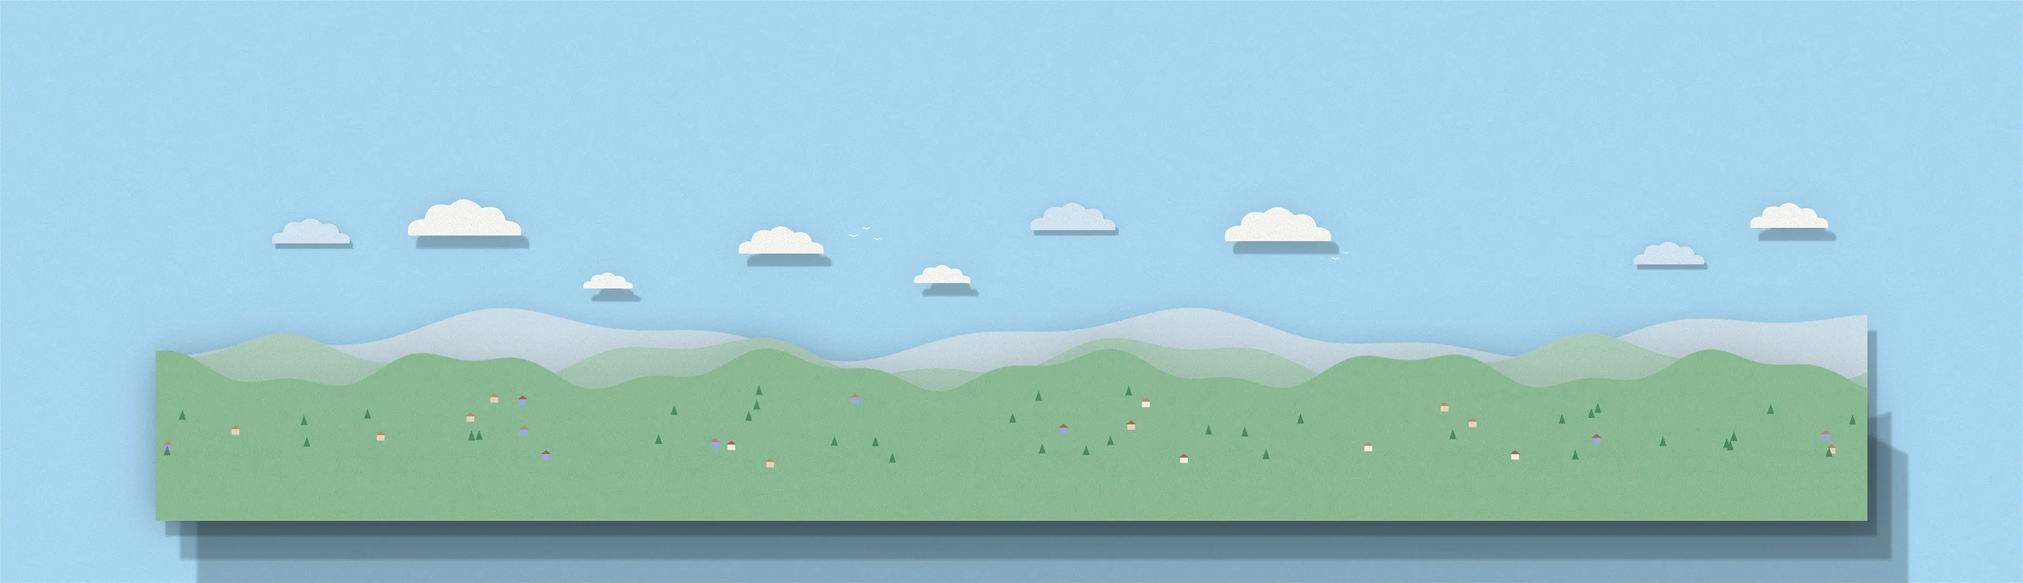
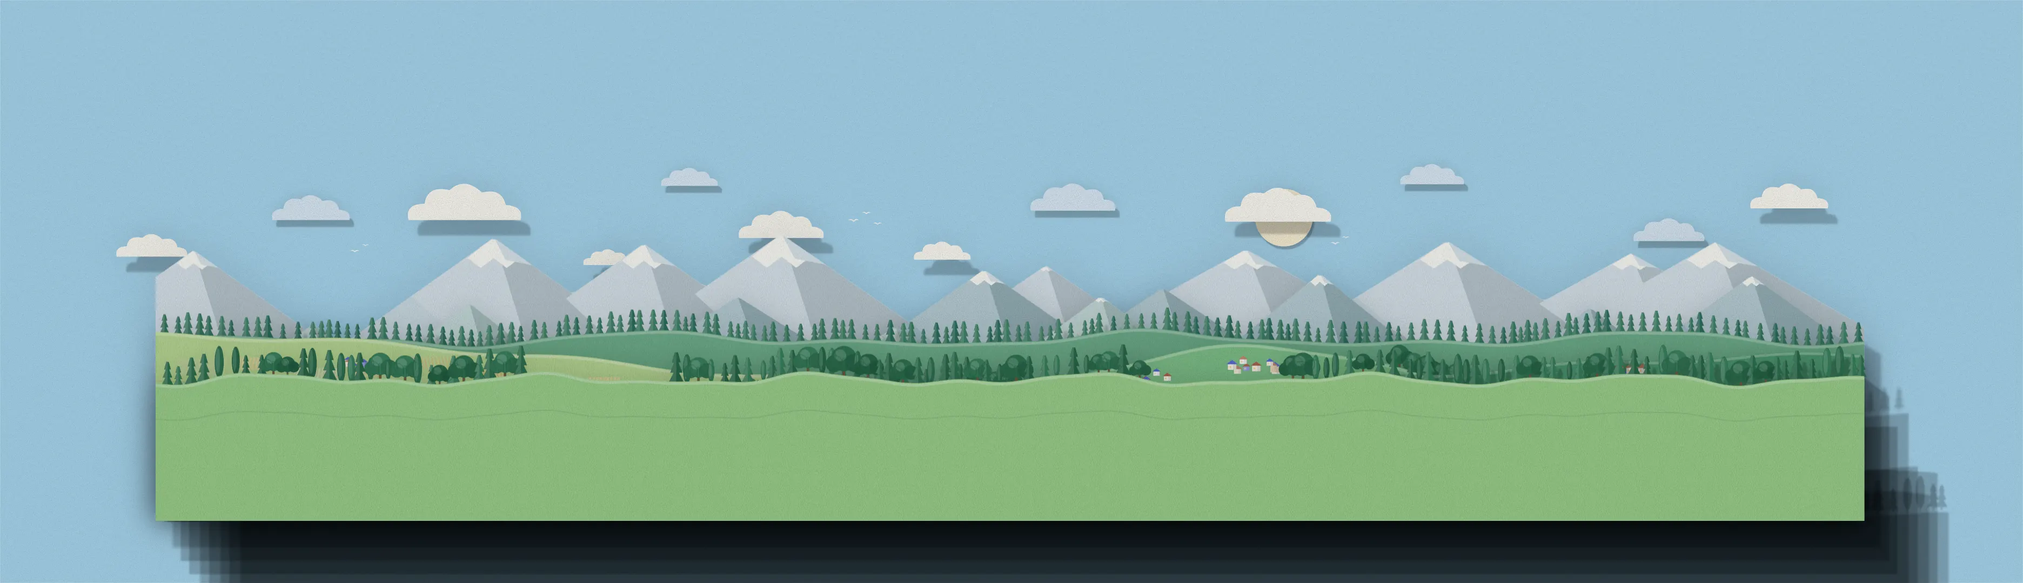
papercraft: a richer valley behind the hometown square (bake pending)
The open view goes from eleven plain layers to about twenty-five: faceted peaks
with snow caps, sweeping hills, mounds, woods on their own sheets, terraced
fields, hamlets, a far-bank town with towers, a quay and bridge, boats, and a
lower town of varied houses. Each sheet carries a lit crest, contour lines and
two-tone trees. The baked art in this commit predates the change.

Claude-Session: https://claude.ai/code/session_01YPNotSbbJKW5yf9dC5KJqA

diff --git a/game/src/art/scenes/hometown.ts b/game/src/art/scenes/hometown.ts
@@ -57,76 +57,195 @@ const NEAR: Card = { id: 'lane-near', x0: -1300, z: -480, w: 2600, density: .95 
 const FAR: Card = { id: 'lane-far', x0: -1800, z: -740, w: 3600, density: .6 };
 const sheet = (card: Card, id: string, gap: number, y0: number, h: number, c: string, mask: string, print = '', stock: Panel['stock'] = 'sugar'): Panel =>
   ({ id, stock, c, w: card.w, h, o: [card.x0, y0, card.z + gap], u: [1, 0, 0], v: [0, 1, 0], edge: 'cut', density: card.density, decal: card.id, mask, print });
-// A row of cottages cut from one sheet: gabled or hipped, each its own colour, with lit windows.
-function cottages(W: number, H: number, lo: number, hi: number, minW: number, maxW: number, cols: string[], roofs: string[], win: string, breaks: number) {
-  let mask = '', print = '';
+/* The landscape kit. Every layer of the view is one cut sheet whose top edge is a profile: a height above the sheet's
+   foot for each x. Layers differ in kind, not only in colour: faceted peaks, hills that sweep up from one side, rounded
+   mounds, rolling bands. Detail is cut from lighter and darker tones of the sheet's own colour. */
+type Prof = (x: number) => number;
+const clamp = (u: number) => Math.min(1, Math.max(0, u)), ease = (u: number) => u * u * (3 - 2 * u);
+const rolling = (hi: number, amp: number, len: number, ph: number): Prof => x => hi + amp * (.55 * Math.sin(x / len + ph) + .3 * Math.sin(x / len * 1.9 + ph * 2) + .15 * Math.sin(x / len * 3.3 + ph * 3));
+const sweep = (x0: number, x1: number, lo: number, hi: number, dir: 1 | -1, ph = 0): Prof => x => lo + (hi - lo) * ease(clamp(dir > 0 ? (x1 - x) / (x1 - x0) : (x - x0) / (x1 - x0))) + 7 * Math.sin(x / 90 + ph);
+const mound = (cx: number, hw: number, lo: number, hi: number): Prof => x => lo + (hi - lo) * Math.cos(clamp(Math.abs(x - cx) / hw) * Math.PI / 2) ** 1.5 + 5 * Math.sin(x / 70);
+type Peak = { x: number; h: number; s: number };
+const range = (pk: Peak[], floor: number): Prof => x => pk.reduce((y, p) => Math.max(y, p.h - Math.abs(x - p.x) * p.s), floor);
+const both = (a: Prof, b: Prof): Prof => x => Math.max(a(x), b(x));
+const line = (W: number, H: number, p: Prof, drop = 0, step = 12) => { let d = ''; for (let x = 0; x <= W; x += step) d += `${x ? 'L' : 'M'}${x} ${f(H - p(x) + drop)}`; return d; };
+const cut = (W: number, H: number, p: Prof) => `<path d="${line(W, H, p)}V${H}H0Z" fill="#fff"/>`;
+// The sheet's own detail: a pale strip along the crest where the light catches the cut edge, and darker contour lines
+// below it, the way stacked card reads.
+const crest = (W: number, H: number, p: Prof, c: string, contours = 2) => `<path d="${line(W, H, p, 5)}" stroke="${tone(c, .28)}" stroke-width="7" fill="none"/>` +
+  Array.from({ length: contours }, (_, i) => `<path d="${line(W, H, x => p(x) * (1 - (i + 1) * .26), 0)}" stroke="${tone(c, -.07)}" stroke-width="3" fill="none"/>`).join('');
+// A field: a patch of ploughed stripes lying on a slope.
+const field = (x: number, y: number, w: number, h: number, skew: number, a: string, b: string) => `<g transform="translate(${f(x)} ${f(y)}) skewX(${skew})"><rect width="${f(w)}" height="${f(h)}" fill="${a}"/>${Array.from({ length: Math.floor(w / 9) }, (_, i) => `<rect x="${i * 9 + 2}" width="3.4" height="${f(h)}" fill="${b}"/>`).join('')}</g>`;
+type Art = { m: string; p: string };
+const none: Art = { m: '', p: '' }, join = (a: Art[]): Art => ({ m: a.map(q => q.m).join(''), p: a.map(q => q.p).join('') });
+const shape = (d: string, c: string): Art => ({ m: `<path d="${d}" fill="#fff"/>`, p: `<path d="${d}" fill="${c}"/>` });
+// Three trees, each cut in two tones: the lit side lighter.
+function pine(x: number, base: number, h: number, c: string): Art {
+  const w = h * .46, t = h / 3.4; let full = `M${f(x - w * .08)} ${f(base)}V${f(base - t * .4)}`, half = `M${f(x)} ${f(base - t * .4)}`;
+  for (let k = 0; k < 3; k++) { const hw = w / 2 * (1 - k * .22), y = base - t * .4 - k * t; full += `L${f(x - hw)} ${f(y)}L${f(x - hw * .36)} ${f(y - t)}`; half += `L${f(x - hw)} ${f(y)}L${f(x - hw * .36)} ${f(y - t)}`; }
+  full += `L${f(x)} ${f(base - h)}`; half += `L${f(x)} ${f(base - h)}Z`;
+  for (let k = 2; k >= 0; k--) { const hw = w / 2 * (1 - k * .22), y = base - t * .4 - k * t; full += `L${f(x + hw * .36)} ${f(y - t)}L${f(x + hw)} ${f(y)}`; }
+  full += `L${f(x + w * .08)} ${f(base - t * .4)}V${f(base)}Z`;
+  return { m: `<path d="${full}" fill="#fff"/>`, p: `<path d="${full}" fill="${c}"/><path d="${half}" fill="${tone(c, .16)}"/>` };
+}
+function oak(x: number, base: number, h: number, c: string): Art {
+  const R = h * .36, cy = base - h + R, blobs: [number, number, number][] = [[0, 0, R], [R * .8, R * .34, R * .72], [-R * .76, R * .4, R * .66]];
+  const m = blobs.map(([dx, dy, rr]) => `<circle cx="${f(x + dx)}" cy="${f(cy + dy)}" r="${f(rr)}" fill="#fff"/>`).join('') + `<rect x="${f(x - R * .12)}" y="${f(cy)}" width="${f(R * .24)}" height="${f(base - cy)}" fill="#fff"/>`;
+  const p = `<rect x="${f(x - R * .12)}" y="${f(cy)}" width="${f(R * .24)}" height="${f(base - cy)}" fill="#7a5c42"/>` + blobs.map(([dx, dy, rr], i) => `<circle cx="${f(x + dx)}" cy="${f(cy + dy)}" r="${f(rr)}" fill="${[c, tone(c, -.12), tone(c, -.05)][i]}"/>`).join('') + `<circle cx="${f(x - R * .28)}" cy="${f(cy - R * .26)}" r="${f(R * .46)}" fill="${tone(c, .18)}"/>`;
+  return { m, p };
+}
+function poplar(x: number, base: number, h: number, c: string): Art {
+  const rx = h * .13, e = `cx="${f(x)}" cy="${f(base - h * .56)}" rx="${f(rx)}" ry="${f(h * .46)}"`;
+  return { m: `<ellipse ${e} fill="#fff"/><rect x="${f(x - 1.5)}" y="${f(base - h * .2)}" width="3" height="${f(h * .2)}" fill="#fff"/>`, p: `<rect x="${f(x - 1.5)}" y="${f(base - h * .2)}" width="3" height="${f(h * .2)}" fill="#7a5c42"/><ellipse ${e} fill="${c}"/><ellipse cx="${f(x - rx * .3)}" cy="${f(base - h * .6)}" rx="${f(rx * .5)}" ry="${f(h * .36)}" fill="${tone(c, .16)}"/>` };
+}
+const TREES = { pine, oak, poplar };
+// A treeline on its own sheet: trees standing on the crest of the hill in front of it, in a value that contrasts with that
+// hill. `runs` are [from, to] stretches, so a wood covers only part of a ridge.
+function woods(W: number, H: number, ground: Prof, runs: [number, number][], kinds: (keyof typeof TREES)[], cols: string[], lo: number, hi: number, every: number): Art {
+  const all: Art[] = [];
+  for (const [a, b] of runs) for (let x = a + r(0, every); x < b; x += r(every * .6, every * 1.3)) { const h = r(lo, hi); all.push(TREES[pick(kinds)](x, H - ground(x) + h * .16, h, pick(cols))); }
+  return join(all);
+}
+// One building, drawn standing on `base`. Roofs, chimneys, dormers, shutters and doors vary, so a row is a street, not a
+// repeat.
+function building(x: number, base: number, w: number, h: number, c: string, roofC: string, win: string, detail = 1): Art {
+  const kind = pick(['gable', 'gable', 'hip', 'side', 'flat']), top = base - h, pk = kind === 'flat' ? 5 : w * r(.3, .44), out: Art[] = [];
+  out.push({ m: `<rect x="${f(x)}" y="${f(top)}" width="${f(w)}" height="${f(h)}" fill="#fff"/>`, p: `<rect x="${f(x)}" y="${f(top)}" width="${f(w)}" height="${f(h)}" fill="${c}"/><rect x="${f(x + w * .62)}" y="${f(top)}" width="${f(w * .38)}" height="${f(h)}" fill="${tone(c, -.07)}"/><rect x="${f(x)}" y="${f(base - 5)}" width="${f(w)}" height="5" fill="${tone(c, -.2)}"/>` });
+  if (r(0, 1) < .5) { const cx = x + w * r(.18, .78), ch = pk * r(.7, 1.1) + 8; out.push({ m: `<rect x="${f(cx)}" y="${f(top - ch)}" width="8" height="${f(ch)}" fill="#fff"/>`, p: `<rect x="${f(cx)}" y="${f(top - ch)}" width="8" height="${f(ch)}" fill="${tone(roofC, -.25)}"/><rect x="${f(cx - 1.5)}" y="${f(top - ch)}" width="11" height="3" fill="${tone(roofC, .3)}"/>` }); }
+  const roof = kind === 'gable' ? `M${f(x - 5)} ${f(top)}L${f(x + w / 2)} ${f(top - pk)}L${f(x + w + 5)} ${f(top)}Z`
+    : kind === 'hip' ? `M${f(x - 5)} ${f(top)}L${f(x + w * .22)} ${f(top - pk * .7)}H${f(x + w * .78)}L${f(x + w + 5)} ${f(top)}Z`
+      : kind === 'side' ? `M${f(x - 5)} ${f(top)}L${f(x + 2)} ${f(top - pk * .62)}H${f(x + w - 2)}L${f(x + w + 5)} ${f(top)}Z` : `M${f(x - 3)} ${f(top)}V${f(top - 6)}H${f(x + w + 3)}V${f(top)}Z`;
+  out.push({ m: `<path d="${roof}" fill="#fff"/>`, p: `<path d="${roof}" fill="${roofC}"/>` + (kind === 'side' || kind === 'hip' ? Array.from({ length: 3 }, (_, i) => `<path d="M${f(x)} ${f(top - pk * .16 * (i + 1))}H${f(x + w)}" stroke="${tone(roofC, -.14)}" stroke-width="1.6"/>`).join('') : '') + (kind === 'gable' ? `<path d="M${f(x + w / 2)} ${f(top - pk)}L${f(x + w + 5)} ${f(top)}H${f(x + w * .62)}Z" fill="${tone(roofC, -.12)}"/>` : '') });
+  if (kind === 'side' && detail > .5 && w > 60) { const dx = x + w * .5 - 9; out.push({ m: `<path d="M${f(dx - 2)} ${f(top - pk * .2)}L${f(dx + 9)} ${f(top - pk * .2 - 14)}L${f(dx + 20)} ${f(top - pk * .2)}Z" fill="#fff"/>`, p: `<rect x="${f(dx)}" y="${f(top - pk * .2 - 4)}" width="18" height="${f(pk * .2 + 2)}" fill="${c}"/><path d="M${f(dx - 2)} ${f(top - pk * .2)}L${f(dx + 9)} ${f(top - pk * .2 - 14)}L${f(dx + 20)} ${f(top - pk * .2)}Z" fill="${tone(roofC, -.1)}"/><rect x="${f(dx + 5)}" y="${f(top - pk * .2 - 2)}" width="8" height="8" fill="${LIT}"/>` }); }
+  const cols = Math.max(1, Math.floor((w - 12) / 26)), rows = Math.max(1, Math.floor((h - 26) / 30)), sx = (w - cols * 13) / (cols + 1); let p = '';
+  for (let j = 0; j < rows; j++) for (let i = 0; i < cols; i++) {
+    const wx = x + sx + i * (13 + sx), wy = top + 9 + j * 30;
+    if (j === rows - 1 && i === Math.floor(cols / 2)) { p += `<rect x="${f(wx - 1)}" y="${f(base - 24)}" width="15" height="24" fill="${tone(roofC, -.15)}"/><rect x="${f(wx + 2)}" y="${f(base - 21)}" width="9" height="6" fill="${LIT}"/>`; continue; }
+    p += `<rect x="${f(wx - 1.5)}" y="${f(wy - 1.5)}" width="16" height="19" fill="${tone(c, .5)}"/><rect x="${f(wx)}" y="${f(wy)}" width="13" height="16" fill="${r(0, 1) > .62 ? LIT : win}"/>`;
+    if (detail > .5 && r(0, 1) < .35) p += `<rect x="${f(wx - 6)}" y="${f(wy)}" width="4.5" height="16" fill="${tone(roofC, .1)}"/><rect x="${f(wx + 14.5)}" y="${f(wy)}" width="4.5" height="16" fill="${tone(roofC, .1)}"/>`;
+    if (detail > .5 && r(0, 1) < .25) p += `<rect x="${f(wx - 2)}" y="${f(wy + 16)}" width="17" height="4" fill="#c8915a"/><circle cx="${f(wx + 3)}" cy="${f(wy + 15)}" r="2.6" fill="#e8552d"/><circle cx="${f(wx + 10)}" cy="${f(wy + 15)}" r="2.6" fill="${YEL}"/>`;
+  }
+  out.push({ m: '', p });
+  return join(out);
+}
+// A street of buildings on one sheet, with something between some of them: a tree, a clock tower, a washing line.
+function street(W: number, H: number, lo: number, hi: number, minW: number, maxW: number, cols: string[], roofs: string[], win: string, breaks: number, detail: number, extras: ('oak' | 'poplar' | 'tower' | 'line')[] = []): Art {
+  const all: Art[] = [];
   for (let x = r(-20, 10); x < W;) {
-    const bw = r(minW, maxW), bh = r(lo, hi), pk = bw * r(.3, .42), top = H - bh, c = pick(cols), rc = pick(roofs);
-    const body = `<rect x="${f(x)}" y="${f(top)}" width="${f(bw)}" height="${f(bh)}"`, gable = `<path d="M${f(x - 5)} ${f(top)}L${f(x + bw / 2)} ${f(top - pk)}L${f(x + bw + 5)} ${f(top)}Z"`;
-    mask += `${body} fill="#fff"/>${gable} fill="#fff"/>`; print += `${body} fill="${c}"/>${gable} fill="${rc}"/>`;
-    for (let wx = x + bw * .16; wx < x + bw - 12; wx += bw * .34) for (let wy = top + 10; wy < H - 20; wy += 30) print += `<rect x="${f(wx)}" y="${f(wy)}" width="${f(bw * .16)}" height="14" fill="${r(0, 1) > .6 ? LIT : win}"/>`;
-    if (r(0, 1) < .4) { mask += `<rect x="${f(x + bw * .7)}" y="${f(top - pk * .8)}" width="7" height="${f(pk * .6)}" fill="#fff"/>`; print += `<rect x="${f(x + bw * .7)}" y="${f(top - pk * .8)}" width="7" height="${f(pk * .6)}" fill="${tone(rc, -.2)}"/>`; }
-    x += bw + (r(0, 1) < breaks ? r(24, 70) : r(2, 10));
+    const bw = r(minW, maxW), bh = r(lo, hi);
+    all.push(building(x, H, bw, bh, pick(cols), pick(roofs), win, detail)); x += bw;
+    if (r(0, 1) < breaks) {
+      const gap = r(30, 80), k = extras.length ? pick(extras) : null;
+      if (k === 'oak') all.push(oak(x + gap / 2, H, r(lo * .7, lo * 1.1), pick(['#4aa067', '#3f8f5a', '#5fb07a'])));
+      else if (k === 'poplar') all.push(poplar(x + gap / 2, H, r(hi * .9, hi * 1.3), '#3f8f5a'));
+      else if (k === 'tower') { const tw = 30, th = hi * 1.5, tx = x + gap / 2 - tw / 2; all.push({ m: `<rect x="${f(tx)}" y="${f(H - th)}" width="${tw}" height="${f(th)}" fill="#fff"/><path d="M${f(tx - 4)} ${f(H - th)}L${f(tx + tw / 2)} ${f(H - th - 34)}L${f(tx + tw + 4)} ${f(H - th)}Z" fill="#fff"/>`, p: `<rect x="${f(tx)}" y="${f(H - th)}" width="${tw}" height="${f(th)}" fill="#f4ead8"/><rect x="${f(tx + tw * .62)}" y="${f(H - th)}" width="${f(tw * .38)}" height="${f(th)}" fill="#e2d5bb"/><path d="M${f(tx - 4)} ${f(H - th)}L${f(tx + tw / 2)} ${f(H - th - 34)}L${f(tx + tw + 4)} ${f(H - th)}Z" fill="${INDIGO}"/><circle cx="${f(tx + tw / 2)}" cy="${f(H - th + 18)}" r="9" fill="#fff"/><path d="M${f(tx + tw / 2)} ${f(H - th + 18)}v-6M${f(tx + tw / 2)} ${f(H - th + 18)}h4" stroke="${STEEL}" stroke-width="1.6"/><rect x="${f(tx + 9)}" y="${f(H - th + 40)}" width="12" height="18" fill="${GLASS}"/>` }); }
+      else if (k === 'line') all.push({ m: `<rect x="${f(x + 4)}" y="${f(H - lo * .7)}" width="3" height="${f(lo * .7)}" fill="#fff"/><rect x="${f(x + gap - 7)}" y="${f(H - lo * .7)}" width="3" height="${f(lo * .7)}" fill="#fff"/><rect x="${f(x + 4)}" y="${f(H - lo * .7)}" width="${f(gap - 8)}" height="2" fill="#fff"/>${[0, 1, 2].map(i => `<rect x="${f(x + 10 + i * (gap - 24) / 3)}" y="${f(H - lo * .7 + 2)}" width="${f((gap - 30) / 3)}" height="${14 + (i % 2) * 6}" fill="#fff"/>`).join('')}`, p: `<rect x="${f(x + 4)}" y="${f(H - lo * .7)}" width="${f(gap - 8)}" height="${f(lo * .7)}" fill="#7a5c42"/>${[0, 1, 2].map(i => `<rect x="${f(x + 10 + i * (gap - 24) / 3)}" y="${f(H - lo * .7 + 2)}" width="${f((gap - 30) / 3)}" height="${14 + (i % 2) * 6}" fill="${[WHITE, LAV, YEL][i]}"/>`).join('')}` });
+      x += gap;
+    } else x += r(2, 8);
   }
-  return { mask, print };
+  return join(all);
 }
-// A ridge line: a soft run of hills, y measured down from the sheet's top.
-function ridge(W: number, H: number, top: number, amp: number, len: number, phase: number) {
-  let d = `M0 ${H}V${f(top + amp * Math.sin(phase))}`;
-  for (let x = 0; x <= W; x += 20) d += `L${x} ${f(top + amp * Math.sin(x / len + phase) + amp * .4 * Math.sin(x / len * 2.7 + phase * 2))}`;
-  return `${d}V${H}Z`;
-}
-const treeRow = (W: number, H: number, c: string[], lo: number, hi: number) => {
-  let m = '', p = '';
-  for (let x = r(0, 30); x < W; x += r(40, 80)) {
-    const cr = r(lo, hi), cy = H - cr * 1.3 - r(0, 14), col = pick(c);
-    m += `<circle cx="${f(x)}" cy="${f(cy)}" r="${f(cr)}" fill="#fff"/><circle cx="${f(x + cr * .8)}" cy="${f(cy + 8)}" r="${f(cr * .7)}" fill="#fff"/><rect x="${f(x - cr)}" y="${f(cy)}" width="${f(cr * 2.5)}" height="${f(H - cy)}" fill="#fff"/>`;
-    p += `<circle cx="${f(x)}" cy="${f(cy)}" r="${f(cr)}" fill="${col}"/><circle cx="${f(x + cr * .8)}" cy="${f(cy + 8)}" r="${f(cr * .7)}" fill="${tone(col, -.12)}"/>`;
-  }
-  return { mask: m, print: p };
-};
+// A clump of tiny roofs for a far hillside village.
+const hamlet = (x: number, y: number, n: number): string => Array.from({ length: n }, () => { const hx = x + r(-60, 60), hy = y + r(-16, 16), k = r(.8, 1.3); return `<g transform="translate(${f(hx)} ${f(hy)}) scale(${f(k)})"><rect width="18" height="12" fill="${pick([WHITE, '#f0dcc0', LAV, '#fff'])}"/><rect x="11" width="7" height="12" fill="#00000014"/><path d="M-3 0L9 -9L21 0Z" fill="${pick([BRICK, INDIGO, TILE])}"/><rect x="3" y="4" width="4" height="4" fill="${LIT}"/></g>`; }).join('');
+
 function laneView(): Panel[] {
   s = 29;
-  const y0 = -70, W = NEAR.w;
-  // Card one, back to front: the lower town's roofs, trees among them, a nearer row of cottages, then the lane's wall.
-  const LH = 250, lower = cottages(W, LH, 120, 200, 70, 130, ['#f4ead8', STONE, '#e8c9a8', LAV, '#fff'], [INDIGO, BRICK, TILE, tone(INDIGO, -.3)], '#7c7f9c', .35);
-  const card: Panel = { id: NEAR.id, stock: 'sugar', c: STONE, w: W, h: LH, o: [NEAR.x0, y0, NEAR.z], u: [1, 0, 0], v: [0, 1, 0], edge: 'cut', density: NEAR.density, split: 2, mask: lower.mask, print: lower.print };
-  const TH = 170, trees = treeRow(W, TH, ['#3f8f5a', '#4aa067', '#347a4b'], 24, 38);
-  const CH = 150, near = cottages(W, CH, 70, 110, 90, 150, [WHITE, '#f0dcc0', '#e3b9a8', '#d9e6f2'], [TILE, BRICK, INDIGO], GLASS, .5);
-  // The wall at the foot of the lane: stone, with a hedge behind it and two gate posts where the lane goes through.
-  const WH = 96, mid = W / 2;
-  let wm = `<rect y="${WH - 46}" width="${W}" height="46" fill="#fff"/>`, wp = `<rect y="${WH - 46}" width="${W}" height="46" fill="#cfc2aa"/><rect y="${WH - 46}" width="${W}" height="7" fill="#e6dccb"/>${Array.from({ length: Math.floor(W / 40) }, (_, i) => `<path d="M${i * 40 + (i % 2) * 14} ${WH - 39}v39" stroke="#b9ab92" stroke-width="1.6"/>`).join('')}`;
-  for (let x = 0; x < W; x += 44) if (Math.abs(x + 22 - mid) > 130) { wm += `<circle cx="${x + 22}" cy="${WH - 52}" r="26" fill="#fff"/>`; wp = `<circle cx="${x + 22}" cy="${WH - 52}" r="26" fill="#8fc49a"/>` + wp; }
-  for (const gx of [mid - 96, mid + 78]) { wm += `<rect x="${gx}" y="14" width="18" height="${WH - 14}" fill="#fff"/><circle cx="${gx + 9}" cy="12" r="11" fill="#fff"/>`; wp += `<rect x="${gx}" y="14" width="18" height="${WH - 14}" fill="#e6dccb"/><circle cx="${gx + 9}" cy="12" r="11" fill="#fff4e2"/>`; }
-  // Card two: far hills, a deeper hill dotted with houses, the far bank's town, then the river.
+  const y0 = -70, W = NEAR.w, mid = W / 2;
+  // Card one, the lower town just below the square, back to front. Five layers, 26 to 36 units apart.
+  // 1. The back street: taller houses, a clock tower, poplars.
+  const LH = 200, back = street(W, LH, 100, 176, 70, 124, ['#f4ead8', STONE, '#e8c9a8', LAV, WHITE, '#d9e6f2'], [INDIGO, BRICK, TILE, tone(INDIGO, -.3), '#8a6a5c'], '#7c7f9c', .32, 1, ['poplar', 'tower', 'oak']);
+  const card: Panel = { id: NEAR.id, stock: 'sugar', c: STONE, w: W, h: LH, o: [NEAR.x0, y0 - 50, NEAR.z], u: [1, 0, 0], v: [0, 1, 0], edge: 'cut', density: NEAR.density, split: 2, mask: back.m, print: back.p };
+  // 2. Garden trees between the two streets, a deep green against the pale houses behind.
+  const TH = 190, flat: Prof = () => 20, trees = woods(W, TH, flat, [[0, W]], ['oak', 'oak', 'pine', 'poplar'], ['#3f8f5a', '#347a4b', '#4aa067'], 96, 150, 78);
+  // 3. The near street: cottages with shutters, flower boxes and washing lines.
+  const CH = 150, near = street(W, CH, 64, 104, 84, 140, [WHITE, '#f0dcc0', '#e3b9a8', '#d9e6f2', LAV], [TILE, BRICK, INDIGO, '#8a6a5c'], GLASS, .5, 1, ['line', 'oak', 'line']);
+  // 4. Back gardens: a clipped hedge with fruit trees and bean poles standing out of it.
+  const GH = 118; let gm = `<rect y="${GH - 30}" width="${W}" height="30" fill="#fff"/>`, gp = '';
+  for (let x = 0; x < W; x += 40) { gm += `<circle cx="${x + 20}" cy="${GH - 32}" r="24" fill="#fff"/>`; gp += `<circle cx="${x + 20}" cy="${GH - 32}" r="24" fill="${x % 80 ? '#7fbf86' : '#8fc994'}"/><circle cx="${x + 12}" cy="${GH - 40}" r="10" fill="#a3d6a3"/>`; }
+  const orchard = woods(W, GH, () => 30, [[0, mid - 200], [mid + 200, W]], ['oak'], ['#5fb07a', '#6fbf86'], 60, 84, 150);
+  // 5. The wall at the foot of the lane: stone, coped, with gate posts where the lane goes through and flowers along it.
+  const WH = 96;
+  let wm = `<rect y="${WH - 46}" width="${W}" height="46" fill="#fff"/>`, wp = `<rect y="${WH - 46}" width="${W}" height="46" fill="#cfc2aa"/><rect y="${WH - 46}" width="${W}" height="7" fill="#e6dccb"/>`;
+  for (let row = 0; row < 3; row++) for (let x = row % 2 ? -18 : 0; x < W; x += 36) wp += `<rect x="${x + 1}" y="${WH - 38 + row * 13}" width="34" height="11" fill="${pick(['#c6b89e', '#d6c9b0', '#bfb096'])}"/>`;
+  for (let x = 14; x < W; x += r(22, 60)) if (Math.abs(x - mid) > 120) { wm += `<circle cx="${f(x)}" cy="${WH - 50}" r="6" fill="#fff"/>`; wp += `<circle cx="${f(x)}" cy="${WH - 50}" r="6" fill="${pick(['#e8552d', YEL, '#e88ab0', WHITE])}"/><rect x="${f(x - 1)}" y="${WH - 46}" width="2" height="6" fill="#4aa067"/>`; }
+  for (const gx of [mid - 96, mid + 78]) { wm += `<rect x="${gx}" y="14" width="18" height="${WH - 14}" fill="#fff"/><circle cx="${gx + 9}" cy="12" r="11" fill="#fff"/>`; wp += `<rect x="${gx}" y="14" width="18" height="${WH - 14}" fill="#e6dccb"/><rect x="${gx + 12}" y="14" width="6" height="${WH - 14}" fill="#d3c7b2"/><circle cx="${gx + 9}" cy="12" r="11" fill="#fff4e2"/>`; }
+
+  // Card two, the valley, back to front. Eight layers, 30 to 50 units apart, alternating pale and deep.
   s = 67;
-  const FW = FAR.w, fy = -90, BH = 440;
-  const far: Panel = { id: FAR.id, stock: 'sugar', c: '#dbe8ee', w: FW, h: BH, o: [FAR.x0, fy, FAR.z], u: [1, 0, 0], v: [0, 1, 0], edge: 'cut', density: FAR.density, split: 2, mask: `<path d="${ridge(FW, BH, 90, 50, 210, .4)}" fill="#fff"/>` };
-  const MH = 400; let dots = '';
-  for (let i = 0; i < 40; i++) { const x = r(20, FW - 40), y = r(130, MH - 170); dots += `<rect x="${f(x)}" y="${f(y)}" width="16" height="11" fill="${pick([WHITE, '#f0dcc0', LAV])}"/><path d="M${f(x - 2)} ${f(y)}l10 -8l10 8Z" fill="${pick([BRICK, INDIGO, TILE])}"/>`; }
-  const hill = sheet(FAR, 'lane-hill', 60, fy, MH, '#8fbf96', `<path d="${ridge(FW, MH, 80, 40, 150, 2.1)}" fill="#fff"/>`, dots);
-  const TW = 300, bank = cottages(FW, TW, 50, 100, 50, 90, ['#f4ead8', STONE, '#e8c9a8', '#fff'], [BRICK, TILE, INDIGO], '#7c7f9c', .3);
-  const town = sheet(FAR, 'lane-town', 124, fy, TW, STONE, bank.mask, bank.print);
-  const RH = 190, river = sheet(FAR, 'lane-river', 184, fy, RH, '#8fcbe8', `<path d="${ridge(FW, RH, 8, 4, 40, 0)}" fill="#fff"/>`, Array.from({ length: 60 }, () => { const x = r(0, FW), y = r(20, RH - 10), l = r(20, 50); return `<path d="M${f(x)} ${f(y)}q${f(l / 4)} -3 ${f(l / 2)} 0t${f(l / 2)} 0" stroke="#d3eefa" stroke-width="2.4" fill="none"/>`; }).join(''));
-  return [card, sheet(NEAR, 'lane-trees', 44, y0, TH, '#3f8f5a', trees.mask, trees.print), sheet(NEAR, 'lane-cottages', 88, y0, CH, WHITE, near.mask, near.print), sheet(NEAR, 'lane-wall', 126, y0, WH, '#cfc2aa', wm, wp, 'greyboard'), far, hill, town, river];
+  const FW = FAR.w, fy = -90, fmid = FW / 2;
+  // 1. A pale hill of terraced fields.
+  const AH = 620, a: Prof = rolling(556, 34, 260, .4);
+  const far: Panel = { id: FAR.id, stock: 'sugar', c: '#c9dfb6', w: FW, h: AH, o: [FAR.x0, fy, FAR.z], u: [1, 0, 0], v: [0, 1, 0], edge: 'cut', density: FAR.density, split: 2, mask: cut(FW, AH, a),
+    print: crest(FW, AH, a, '#c9dfb6', 3) + Array.from({ length: 22 }, (_, i) => field(40 + i * 166 + r(-20, 20), AH - a(40 + i * 166) + r(26, 70), r(70, 120), r(26, 44), pick([-24, -14, 16, 26]), pick(['#b6d39e', '#d6e6b8', '#e6dca0']), pick(['#a3c48c', '#c6d9a6', '#d6ca8a']))).join('') };
+  // 2. A wood on the next ridge, standing behind it.
+  const BHh = 550, b: Prof = sweep(0, FW * .62, 400, 520, 1, 1);
+  const wood1 = woods(FW, BHh + 60, b, [[0, FW * .34], [FW * .46, FW * .6]], ['pine', 'pine', 'oak'], ['#2f7453', '#3a8460', '#286a4a'], 50, 84, 36);
+  // 3. That ridge: a deep hill sweeping up to the left, with a hamlet on its shoulder.
+  const ridgeArt = crest(FW, BHh, b, '#5fa77a') + hamlet(FW * .2, BHh - b(FW * .2) + 46, 7) + hamlet(FW * .42, BHh - b(FW * .42) + 40, 5);
+  // 4. A bright hill sweeping up to the right, with orchards in rows and a road winding over it.
+  const CHh = 480, c2: Prof = sweep(FW * .3, FW, 330, 450, -1, 2);
+  let orch = ''; for (let i = 0; i < 9; i++) for (let j = 0; j < 3; j++) { const ox = FW * .62 + i * 54 + j * 16, oy = CHh - c2(ox) + 30 + j * 24; orch += `<circle cx="${f(ox)}" cy="${f(oy)}" r="9" fill="#5fa77a"/><circle cx="${f(ox - 3)}" cy="${f(oy - 3)}" r="4" fill="#86c494"/>`; }
+  let rd = ''; for (let k = 0; k <= 40; k++) { const t = k / 40, x = FW * (.5 + .46 * t) + 60 * Math.sin(t * 9); rd += `${k ? 'L' : 'M'}${f(x)} ${f(CHh - c2(x) * (.5 + .5 * t) + 8)}`; }
+  const road = `<path d="${rd}" stroke="#f4ead8" stroke-width="9" fill="none" stroke-linejoin="round"/>`;
+  // 5. The far bank's town: a street of houses with towers and poplars.
+  const DH = 220, town = street(FW, DH, 54, 110, 46, 88, ['#f4ead8', STONE, '#e8c9a8', WHITE, LAV], [BRICK, TILE, INDIGO, '#8a6a5c'], '#7c7f9c', .3, .4, ['poplar', 'tower', 'oak', 'oak']);
+  // 6. The quay: a stone wall under a row of plane trees, with a bridge of three arches crossing toward us.
+  const EH = 300, quay = woods(FW, EH, () => 236, [[0, fmid - 260], [fmid + 320, FW]], ['oak'], ['#3f8f5a', '#4aa067'], 54, 72, 64);
+  const bx = fmid - 220, bw = 500, arches = [0, 1, 2].map(i => `M${bx + 30 + i * 150} ${EH}V${EH - 190}a55 44 0 0 1 110 0V${EH}Z`).join(' ');
+  const qm = `<rect y="${EH - 240}" width="${FW}" height="240" fill="#fff"/>` + quay.m + `<path fill-rule="evenodd" d="M${bx} ${EH}V${EH - 262}H${bx + bw}V${EH}Z" fill="#fff"/>`;
+  const qp = `<rect y="${EH - 240}" width="${FW}" height="240" fill="#bfb39c"/><rect y="${EH - 240}" width="${FW}" height="8" fill="#e6dccb"/>${Array.from({ length: Math.floor(FW / 44) }, (_, i) => `<path d="M${i * 44 + 12} ${EH - 232}v40" stroke="#a89c86" stroke-width="2"/>`).join('')}` + quay.p +
+    `<rect x="${bx}" y="${EH - 262}" width="${bw}" height="262" fill="#e9dfcb"/><rect x="${bx}" y="${EH - 262}" width="${bw}" height="10" fill="#fff7e6"/><path d="${arches}" fill="#8fcbe8"/>${[0, 1, 2].map(i => `<path d="M${bx + 30 + i * 150} ${EH - 190}a55 44 0 0 1 110 0" stroke="#cfc2aa" stroke-width="7" fill="none"/>`).join('')}${Array.from({ length: 12 }, (_, i) => `<rect x="${bx + 10 + i * 42}" y="${EH - 276}" width="4" height="16" fill="#e9dfcb"/>`).join('')}<rect x="${bx}" y="${EH - 280}" width="${bw}" height="5" fill="#e9dfcb"/>`;
+  const qmFull = qm + Array.from({ length: 12 }, (_, i) => `<rect x="${bx + 10 + i * 42}" y="${EH - 276}" width="4" height="16" fill="#fff"/>`).join('') + `<rect x="${bx}" y="${EH - 280}" width="${bw}" height="5" fill="#fff"/>`;
+  // 7. Boats on the river: two rowing boats and a ferry, standing between the quay and the water.
+  const boat = (x: number, y: number, k: number, hull: string): Art => ({ m: `<g transform="translate(${x} ${y}) scale(${k})"><path d="M0 0H70L60 16H10Z" fill="#fff"/><rect x="20" y="-16" width="30" height="16" fill="#fff"/></g>`, p: `<g transform="translate(${x} ${y}) scale(${k})"><path d="M0 0H70L60 16H10Z" fill="${hull}"/><rect width="70" height="4" fill="#fff7e6"/><rect x="20" y="-16" width="30" height="16" fill="#fff7e6"/><rect x="24" y="-12" width="8" height="7" fill="${GLASS}"/><rect x="38" y="-12" width="8" height="7" fill="${GLASS}"/></g>` });
+  const BTH = 250, boats = join([boat(fmid - 520, BTH - 222, 1.3, INDIGO), boat(fmid + 420, BTH - 214, 1, BRICK), boat(fmid + 760, BTH - 226, 1.5, YEL), boat(fmid - 900, BTH - 216, 1.1, TEAL)]);
+  // 8. The river in front, in two tones of blue with cut ripples.
+  const RH = 232, river: Prof = rolling(224, 3, 40, 0);
+  const ripple = Array.from({ length: 120 }, () => { const x = r(0, FW), y = r(16, RH - 8), l = r(20, 60); return `<path d="M${f(x)} ${f(y)}q${f(l / 4)} -3 ${f(l / 2)} 0t${f(l / 2)} 0" stroke="${pick(['#d3eefa', '#bfe6f8', '#6fb6da'])}" stroke-width="2.6" fill="none"/>`; }).join('');
+  return [card, sheet(NEAR, 'lane-trees', 30, y0 - 40, TH, '#3f8f5a', trees.m, trees.p), sheet(NEAR, 'lane-cottages', 62, y0 - 30, CH, WHITE, near.m, near.p),
+    sheet(NEAR, 'lane-gardens', 96, y0 - 10, GH, '#7fbf86', gm + orchard.m, gp + orchard.p), sheet(NEAR, 'lane-wall', 128, y0, WH, '#cfc2aa', wm, wp, 'greyboard'),
+    far, sheet(FAR, 'lane-wood', 36, fy, BHh + 60, '#2f7453', wood1.m, wood1.p), sheet(FAR, 'lane-ridge', 52, fy, BHh, '#5fa77a', cut(FW, BHh, b), ridgeArt),
+    sheet(FAR, 'lane-orchard', 92, fy, CHh, '#a9d68f', cut(FW, CHh, c2), crest(FW, CHh, c2, '#a9d68f') + orch + road),
+    sheet(FAR, 'lane-town', 132, 138, DH, STONE, town.m, town.p), sheet(FAR, 'lane-quay', 170, fy, EH, '#bfb39c', qmFull, qp, 'greyboard'),
+    sheet(FAR, 'lane-boats', 196, fy, BTH, WHITE, boats.m, boats.p, 'cover'), sheet(FAR, 'lane-river', 222, fy, RH, '#8fcbe8', cut(FW, RH, river), `<rect y="${RH - 120}" width="${FW}" height="120" fill="#7fbfe0"/>` + ripple)];
 }
-// The far distance, in the CSS backdrop: sky, two layers of cut clouds, then three ranges of hills, pale to deep, the
-// nearest dotted with houses and pines. Only world heights of about 350 to 800 show above the homes.
+// The far distance, in the CSS backdrop: sky, a pale sun, two layers of cut clouds, then seven layers of land from snowy
+// peaks down to the wooded hills behind the valley. Kinds and values alternate, and each wood is its own sheet behind its
+// hill. Only world heights of about 350 to 800 show above the homes.
 function backdrop(): Panel[] {
   s = 13;
-  const D = .72, z = -780;
-  const gulls = [[2180, 600, 1.2], [2215, 582, 1], [2245, 610, .9], [3420, 660, 1], [3450, 646, .8]].map(([x, y, k]) => `<path transform="translate(${x} ${y}) scale(${k})" d="M0 6Q6 0 12 6Q18 0 24 6Q18 3 12 9Q6 3 0 6Z" fill="#fdfcf8"/>`).join('');
-  const layer = (id: string, gap: number, h: number, c: string, mask: string, print = ''): Panel => ({ id, stock: 'sugar', c, w: 4400, h, o: [-2080, 0, z + gap], u: [1, 0, 0], v: [0, 1, 0], edge: 'cut', density: D, decal: 'sky', mask, print });
+  const D = .72, z = -780, BW = 4400, bx0 = -2080;
+  const gulls = [[2180, 560, 1.2], [2215, 542, 1], [2245, 570, .9], [3420, 620, 1], [3450, 606, .8], [900, 640, 1], [930, 626, .8]].map(([x, y, k]) => `<path transform="translate(${x} ${y}) scale(${k})" d="M0 6Q6 0 12 6Q18 0 24 6Q18 3 12 9Q6 3 0 6Z" fill="#fdfcf8"/>`).join('');
+  const land = (id: string, gap: number, h: number, c: string, mask: string, print = ''): Panel => ({ id, stock: 'sugar', c, w: BW, h, o: [bx0, 0, z + gap], u: [1, 0, 0], v: [0, 1, 0], edge: 'cut', density: D, decal: 'sky', mask, print });
   const clouds = (id: string, gap: number, c: string, at: number[][]): Panel => ({ id, stock: 'sugar', c, w: 5200, h: 1500, o: [-2480, -160, z + gap], u: [1, 0, 0], v: [0, 1, 0], edge: 'cut', density: D, decal: 'sky', mask: at.map(([x, y, k]) => cloud(x, y, k, '#fff')).join('') });
-  let dots = '';
-  for (let i = 0; i < 60; i++) { const x = r(20, 4360), y = r(140, 330); dots += r(0, 1) > .5 ? `<rect x="${f(x)}" y="${f(y)}" width="20" height="14" fill="${pick([WHITE, '#f0dcc0', LAV])}"/><path d="M${f(x - 3)} ${f(y)}l13 -10l13 10Z" fill="${pick([BRICK, INDIGO, TILE])}"/>` : `<path d="M${f(x)} ${f(y)}l9 -26l9 26Z" fill="#4f8f62"/>`; }
+  // Faceted peaks: each a lit face and a shaded face, the tall ones capped with snow cut in a zigzag.
+  const peaksArt = (H: number, pk: Peak[], floor: number, c: string, snowAt: number) => pk.map(p => {
+    const run = (p.h - floor) / p.s, tx = p.x, ty = H - p.h;
+    let out = `<path d="M${f(tx)} ${f(ty)}L${f(tx + run)} ${f(H - floor)}H${f(tx + run * .22)}Z" fill="${tone(c, -.1)}"/><path d="M${f(tx)} ${f(ty)}L${f(tx - run * .5)} ${f(ty + run * .5 * p.s)}L${f(tx - run * .12)} ${f(H - floor)}H${f(tx + run * .22)}Z" fill="${tone(c, .2)}"/>`;
+    if (p.h > snowAt) { const d = (p.h - snowAt) * .8, wL = d / p.s; let zig = `M${f(tx)} ${f(ty - 2)}L${f(tx + wL)} ${f(ty + d)}`; for (let i = 1; i <= 6; i++) zig += `L${f(tx + wL - i * wL / 3)} ${f(ty + d + (i % 2 ? -d * .26 : d * .1))}`; out += `<path d="${zig}Z" fill="#fdfdf8"/><path d="M${f(tx)} ${f(ty - 2)}L${f(tx + wL)} ${f(ty + d)}L${f(tx + wL * .3)} ${f(ty + d * .8)}Z" fill="#dbe8ee"/>`; }
+    return out;
+  }).join('');
+  const mk = (n: number, x0: number, x1: number, lo: number, hi: number, sl: number): Peak[] => Array.from({ length: n }, (_, i) => ({ x: x0 + (i + .5) * (x1 - x0) / n + r(-.3, .3) * (x1 - x0) / n, h: r(lo, hi), s: sl * r(.85, 1.2) }));
+  const P1 = mk(9, 0, BW, 590, 740, .62), p1 = range(P1, 430), P2 = mk(6, BW * .28, BW, 520, 660, .7), p2 = range(P2, 380), P3 = mk(5, 0, BW * .6, 480, 600, .66), p3 = range(P3, 380);
+  // Hills: a deep wooded band, a pale sweep with fields, a mound with a village, a deep sweep, then rolling woods.
+  const h4 = rolling(470, 26, 200, 1.3), h5 = both(sweep(0, BW * .55, 330, 480, 1, 2), rolling(350, 14, 150, 4)), h6 = both(mound(BW * .64, 760, 300, 452), rolling(330, 16, 170, 2)), h7 = both(sweep(BW * .4, BW, 300, 430, -1, 5), rolling(318, 14, 120, 3)), h8 = rolling(366, 20, 110, 5);
+  const w4 = woods(BW, 560, h4, [[0, BW]], ['pine'], ['#3a7f66', '#2f7460', '#44896e'], 44, 70, 30);
+  const w6 = woods(BW, 520, h6, [[BW * .34, BW * .5], [BW * .72, BW * .9]], ['oak', 'pine'], ['#2f7453', '#3a8460'], 46, 74, 34);
+  const w8 = woods(BW, 470, h8, [[0, BW * .22], [BW * .3, BW * .58], [BW * .66, BW]], ['pine', 'oak', 'pine', 'poplar'], ['#286a4a', '#2f7453', '#3a8460'], 54, 92, 34);
+  const fields5 = Array.from({ length: 16 }, (_, i) => { const x = 60 + i * 150; return field(x, 560 - h5(x) + r(30, 80), r(70, 130), r(28, 46), pick([-22, -12, 14, 24]), pick(['#c3dba0', '#e2dc9c', '#d6e6b8']), pick(['#afc98c', '#cfc884', '#c3d6a3'])); }).join('');
   return [
     { id: 'sky', backdrop: true, stock: 'cover', c: '#a9d8f0', w: 5200, h: 1500, o: [-2480, -160, z], u: [1, 0, 0], v: [0, 1, 0], density: D, print: gulls },
-    clouds('clouds-far', 14, '#dcecf8', [[700, 560, 1.1], [2650, 520, 1.2], [4200, 620, 1]]),
-    clouds('clouds-near', 34, '#fffdf6', [[1050, 510, 1.6], [1900, 580, 1.2], [3150, 530, 1.5], [2350, 680, .8], [4500, 520, 1.1], [1500, 700, .7]]),
-    layer('hills-far', 40, 560, '#d6e6ee', `<path d="${ridge(4400, 560, 80, 50, 260, 1)}" fill="#fff"/>`),
-    layer('hills-mid', 100, 500, '#b4d3c0', `<path d="${ridge(4400, 500, 80, 44, 180, 3)}" fill="#fff"/>`),
-    layer('hills-near', 170, 470, '#8fc096', `<path d="${ridge(4400, 470, 80, 40, 130, 5)}" fill="#fff"/>`, dots)
+    { id: 'sun', stock: 'sugar', c: '#fff3c4', w: 5200, h: 1500, o: [-2480, -160, z + 8], u: [1, 0, 0], v: [0, 1, 0], edge: 'cut', density: D, decal: 'sky', mask: '<circle cx="2760" cy="650" r="66" fill="#fff"/>' },
+    clouds('clouds-far', 18, '#dcecf8', [[700, 500, 1.1], [2650, 470, 1.2], [4200, 560, 1], [1700, 430, .8], [3600, 420, .9]]),
+    clouds('clouds-near', 40, '#fffdf6', [[1050, 470, 1.6], [1900, 540, 1.2], [3150, 480, 1.5], [2350, 620, .8], [4500, 470, 1.1], [1500, 640, .7], [300, 600, 1]]),
+    land('peaks-far', 70, 760, '#cfdfe8', cut(BW, 760, p1), peaksArt(760, P1, 430, '#cfdfe8', 640)),
+    land('peaks-right', 104, 680, '#a9c6cf', cut(BW, 680, p2), peaksArt(680, P2, 380, '#a9c6cf', 600)),
+    land('peaks-left', 138, 620, '#bcd6d6', cut(BW, 620, p3), peaksArt(620, P3, 380, '#bcd6d6', 560)),
+    land('wood-high', 168, 560, '#3a7f66', w4.m, w4.p), land('hill-high', 184, 520, '#6fae8c', cut(BW, 520, h4), crest(BW, 520, h4, '#6fae8c')),
+    land('hill-fields', 222, 560, '#b9d996', cut(BW, 560, h5), crest(BW, 560, h5, '#b9d996') + fields5 + hamlet(BW * .12, 560 - 400, 6)),
+    land('wood-mound', 252, 520, '#2f7453', w6.m, w6.p), land('hill-mound', 268, 480, '#7fc08a', cut(BW, 480, h6), crest(BW, 480, h6, '#7fc08a') + hamlet(BW * .64, 480 - 400, 9) + hamlet(BW * .58, 480 - 372, 5)),
+    land('hill-deep', 304, 450, '#4f9a72', cut(BW, 450, h7), crest(BW, 450, h7, '#4f9a72') + hamlet(BW * .86, 450 - 380, 6)),
+    land('wood-low', 334, 470, '#286a4a', w8.m, w8.p), land('hill-low', 350, 400, '#9bd08c', cut(BW, 400, h8), crest(BW, 400, h8, '#9bd08c', 1))
   ];
 }
 

diff --git a/game/docs/ART_BIBLE.md b/game/docs/ART_BIBLE.md
@@ -133,7 +133,11 @@ The Moperty space (`src/art/scenes/hometown.ts`) is the square of a small hometo
 - **Arrival:** the MRT exit stands at the left end: a head house with the stair going down under a teal canopy, and the line's roundel on a totem.
 - **Main space:** the square, paved in pale setts. It is wider and deeper than the Blibli street, so the camera stands further back (zoom .85) and pans further.
 - **The homes:** four folded houses under gabled roofs face the square behind picket fences. Each garden has a board on a stake that says what is on offer by picture alone: a yellow tag for sale, a lavender key for rent.
-- **Open surroundings:** a lane between the homes drops to the valley. Card one is the lower town: roofs, trees, a nearer row of cottages, then the lane's stone wall and hedge. Card two is the valley: far hills, a deeper hill dotted with houses, the far bank's town, the river. The CSS backdrop carries the sky, two layers of cut clouds and three ranges of hills.
+- **Open surroundings:** a lane between the homes drops to the valley, built as about twenty-five cut layers. Layers differ in kind, not only in colour (faceted peaks, hills that sweep up from one side, rounded mounds, rolling bands), and alternate pale and deep.
+  - *Card one, the lower town (five layers, about 30 units apart):* a back street of taller houses with a clock tower and poplars; garden trees; a near street of cottages with shutters, flower boxes and washing lines; back-garden hedges with fruit trees; the lane's coursed stone wall with gate posts and flowers.
+  - *Card two, the valley (eight layers, 30 to 50 apart):* a pale hill of terraced fields; a wood on its own sheet behind the next ridge; that ridge with hamlets; a bright hill with orchard rows and a winding road; the far bank's town; a stone quay under plane trees with a three-arch bridge; boats; the river in two blues.
+  - *The CSS backdrop:* sky, a pale sun, two layers of clouds, three ranges of faceted peaks with zigzag snow caps, then five hills (wooded band, terraced fields, a mound with a village, a deep sweep, rolling woods), each wood on its own sheet behind its hill.
+  - *Detail on every sheet:* a pale strip along each crest where light catches the cut edge and darker contour lines below it; trees in three kinds (pine, oak, poplar), each cut in two tones; buildings that vary in roof (gable, hip, side-on, flat), chimneys, dormers, shutters, doors and flower boxes; fields as ploughed stripes lying on the slope.
 - **Enclosed surroundings:** a pair of terraced houses turned inward at each end, their porches, flower boxes, lanterns and steps carved in relief.
 - **Small stories:** a couple looking over the open house, a neighbour at her gate, a cat on a fence, moving day at the last home (a folded van, cartons, a mover, a child watching), someone dozing by the bench under the tree.
 - **Thin posts are flat strips.** A folded post has both side faces in view from this wide camera, and the browser tears the ground between two such planes. For the same reason both ground sheets ship as sixteen tiles.
